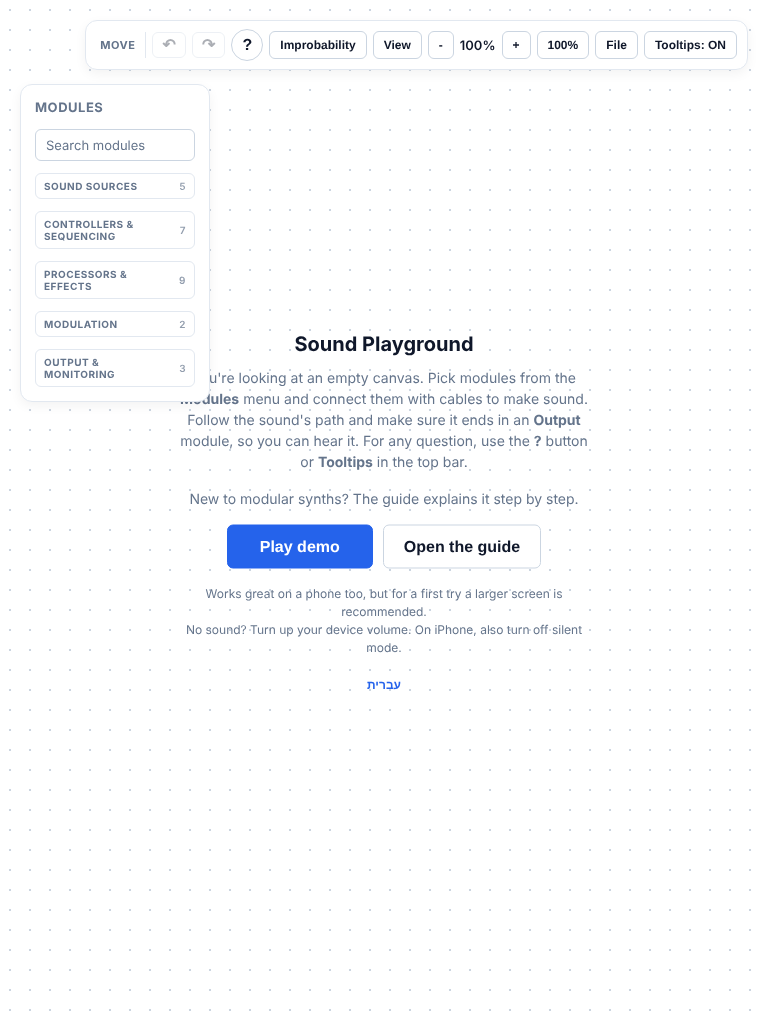
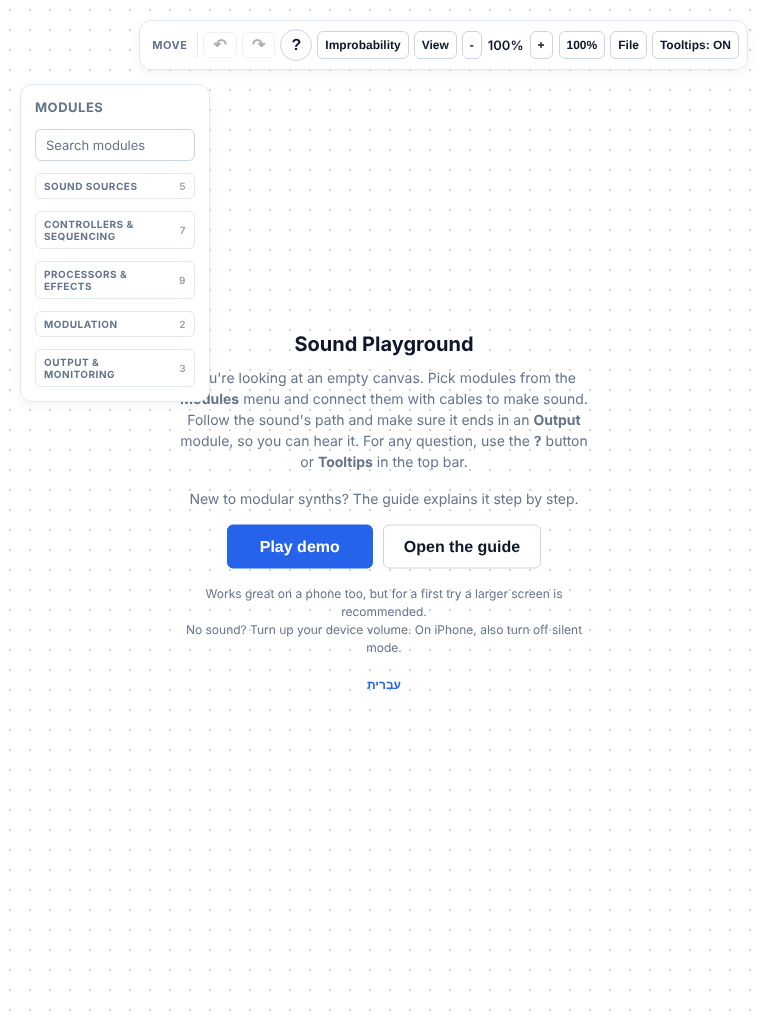
iPad portrait: keep the toolbar on one row (#88)
Claude-Session: https://claude.ai/code/session_01MK8TDschaqwzLbxzvYubmw

Changed region(s): [[0.2812, 0.0312, 0.9688, 0.0625], [0.125, 0.0312, 0.25, 0.0625]]

diff --git a/app.js b/app.js
@@ -2159,8 +2159,19 @@ if (!window.SoundSandboxApp) {
         handle.classList.add('panel-drag-handle');
         handle.title = 'Drag to move. Double-click to reset position.';
 
+        // Width the panel wants (measured at the left edge, so a panel squeezed against the right edge
+        // and wrapped onto two rows still reports its one-row width)
+        const naturalWidth = () => {
+          const prevLeft = el.style.left, prevRight = el.style.right;
+          el.style.left = '0px';
+          el.style.right = 'auto';
+          const w = Math.ceil(el.getBoundingClientRect().width) + 1; // +1: a fractional width would wrap at the edge
+          el.style.left = prevLeft;
+          el.style.right = prevRight;
+          return w;
+        };
         const placeAt = (left, top) => {
-          const maxLeft = Math.max(0, window.innerWidth - el.offsetWidth);
+          const maxLeft = Math.max(0, window.innerWidth - naturalWidth());
           const maxTop = Math.max(0, window.innerHeight - 40);
           left = Math.min(Math.max(0, left), maxLeft);
           top = Math.min(Math.max(0, top), maxTop);
@@ -2178,6 +2189,12 @@ if (!window.SoundSandboxApp) {
         window.addEventListener('resize', () => {
           if (el.style.left) placeAt(parseFloat(el.style.left), parseFloat(el.style.top));
         });
+        // ...and when its buttons change (e.g. the Demo button appears in the Toolbar), slide it left so it keeps one row.
+        if (window.MutationObserver) {
+          new MutationObserver(() => {
+            if (el.style.left && !el.classList.contains('panel-dragging')) placeAt(parseFloat(el.style.left), parseFloat(el.style.top));
+          }).observe(el, { subtree: true, childList: true, attributes: true, attributeFilter: ['hidden'] });
+        }
 
         handle.addEventListener('pointerdown', (e) => {
           if (e.button !== 0) return;

diff --git a/styles.css b/styles.css
@@ -2058,10 +2058,11 @@ body.cable-dragging .module-card input[type="range"].knob-droppable {
 @media (min-width: 701px) and (min-height: 501px) and (max-width: 1279px) {
   .sidebar { top: 84px; }
 }
-/* iPad portrait (up to 860 px): tighter spacing between toolbar buttons, so the Improbability button
-   and the docked Demo button still fit on one row */
+/* iPad portrait (744-860 px, iPad mini to iPad Pro 11): tighter spacing and button padding in the toolbar,
+   so with the Improbability and docked Demo buttons it still fits on one row (about 680 px wide) */
 @media (min-width: 701px) and (min-height: 501px) and (max-width: 860px) {
-  .toolbar { gap: 6px; padding-left: 10px; padding-right: 10px; }
+  .toolbar { gap: 5px; padding-left: 8px; padding-right: 8px; }
+  .toolbar .tool-btn { padding-left: 7px; padding-right: 7px; }
 }
 
 /* Toolbar groups (View: Theme, Play Mode, Cables; File: Save, Load, Clear), on every screen:

diff --git a/index.html b/index.html
@@ -23,7 +23,7 @@
   <meta name="apple-mobile-web-app-status-bar-style" content="default">
   <link rel="apple-touch-icon" href="icons/icon-180.png">
   <link rel="icon" type="image/png" sizes="192x192" href="icons/icon-192.png">
-  <link rel="stylesheet" href="styles.css?v=3.37">
+  <link rel="stylesheet" href="styles.css?v=3.38">
 </head>
 <body class="light-theme">
 
@@ -188,7 +188,7 @@
 
   <!-- Main Application -->
   <script src="modulation.js?v=2"></script>
-  <script src="app.js?v=32"></script>
+  <script src="app.js?v=33"></script>
   <script src="improbability.js?v=1"></script>
   <script src="presetTips.js?v=7"></script>
   <script src="onboarding.js?v=6"></script>

diff --git a/architecture.md b/architecture.md
@@ -138,7 +138,7 @@ A browser-based, interactive modular synthesizer sandbox built with pure HTML5, 
 2b. **Zooming**: Controlled via Toolbar Zoom buttons or mouse wheel modifiers, scaling `#workspace-viewport`. Range: `minZoom()` = 10% (0.1) on every screen (phone, iPad, desktop; was 40%, and 25% on phone) up to 220%.
    - **iPad / touch**: pinching with two fingers on the empty workspace zooms the app view around the fingers (and moving the two fingers pans it), handled with pointer events in `bindCanvasInteractions` (`touchPoints`, `pinch`). The Apple Pencil (`pointerType: 'pen'`) never pinches. The browser's own page zoom is blocked: `touch-action: none` on `html`, `body` and `#canvas-container`, `preventDefault` on Safari's `gesturestart/gesturechange/gestureend` and on multi-finger `touchmove`. Scrollable areas (Sidebar, help tabs and help content) use `touch-action: pan-x pan-y` so they still scroll. The viewport meta also has `maximum-scale=1.0, user-scalable=no`.
    - **The page never scrolls**: `html` has `overflow: hidden; overflow: clip; height: 100%` and `#canvas-container` has `overflow: hidden; overflow: clip`. Without this, modules placed beyond the screen made the page larger than the screen, and iPad Safari let the whole page slide while panning, showing an edge where the dot grid stopped, with modules cut off there and the view jumping back. `clip` also stops focusing a control from scrolling the workspace; `hidden` is the fallback for older Safari.
-   - **Nothing may stick out past the screen edge** (iPad Safari then shrinks the whole page to fit it, so the dotted canvas ends before the screen does and modules are cut off there). On screens that are not phones (`min-width: 701px` and `min-height: 501px`) the Toolbar has `max-width: calc(100vw - 40px); flex-wrap: wrap; row-gap: 8px` as a last resort. Between 701 and 860 px wide (iPad portrait) the Toolbar uses `gap: 6px` and `padding-left/right: 10px`, so with the Improbability and docked Demo buttons it still fits on one row at 768 px. **Toolbar groups** (all screens, owner's choice): in `index.html` Theme / Play Mode / Cables sit in `div.tb-group[data-group="view"]` and Save / Load (with its hidden file input) / Clear in `div.tb-group[data-group="file"]`, each holding a `button.tool-btn.tb-group-toggle` ("View" / "File", `aria-expanded`) and a `div.tb-group-items`. The Toolbar is therefore one row of about 675 px: Move, Undo, Redo, ?, Demo, View, zoom, File, Tooltips (on a phone it still scrolls sideways when narrower than that). The items are a small dropdown panel (`position: fixed`, panel colors, a column of buttons, `nowrap`), hidden until the group has `.open`. `app.js` `initToolbarGroups()` (called after `initDraggablePanels()`): a toggle click opens its group (toggle drawn in the primary color), closes the other, and places the panel 6 px under the Toolbar's bottom, left-aligned with its button and clamped 8 px inside the screen (fixed positioning so the phone's `overflow-x: auto` Toolbar cannot clip it); clicking a button inside, a capture `pointerdown` anywhere outside, scrolling the Toolbar or resizing the window closes it. Up to 1279 px wide the Sidebar starts at `top: 84px` so the Toolbar never covers it. Dragged panels are already clamped to the screen (`placeAt`).
+   - **Nothing may stick out past the screen edge** (iPad Safari then shrinks the whole page to fit it, so the dotted canvas ends before the screen does and modules are cut off there). On screens that are not phones (`min-width: 701px` and `min-height: 501px`) the Toolbar has `max-width: calc(100vw - 40px); flex-wrap: wrap; row-gap: 8px` as a last resort. Between 701 and 860 px wide (iPad portrait, iPad mini 744 to iPad Pro 11 834) the Toolbar uses `gap: 5px`, `padding-left/right: 8px` and its `.tool-btn`s 7 px side padding, so with the Improbability and docked Demo buttons it is about 663 px wide and fits on one row. A moved panel (Toolbar or Sidebar, `initDraggablePanels()` `placeAt()`) is clamped using its one-row width (`naturalWidth()`: measured at `left: 0`, rounded up + 1 px), not its current width, so a Toolbar saved near the right edge slides left instead of wrapping; a `MutationObserver` re-places it when its buttons change (e.g. the Demo button appears). **Toolbar groups** (all screens, owner's choice): in `index.html` Theme / Play Mode / Cables sit in `div.tb-group[data-group="view"]` and Save / Load (with its hidden file input) / Clear in `div.tb-group[data-group="file"]`, each holding a `button.tool-btn.tb-group-toggle` ("View" / "File", `aria-expanded`) and a `div.tb-group-items`. The Toolbar is therefore one row of about 675 px: Move, Undo, Redo, ?, Demo, View, zoom, File, Tooltips (on a phone it still scrolls sideways when narrower than that). The items are a small dropdown panel (`position: fixed`, panel colors, a column of buttons, `nowrap`), hidden until the group has `.open`. `app.js` `initToolbarGroups()` (called after `initDraggablePanels()`): a toggle click opens its group (toggle drawn in the primary color), closes the other, and places the panel 6 px under the Toolbar's bottom, left-aligned with its button and clamped 8 px inside the screen (fixed positioning so the phone's `overflow-x: auto` Toolbar cannot clip it); clicking a button inside, a capture `pointerdown` anywhere outside, scrolling the Toolbar or resizing the window closes it. Up to 1279 px wide the Sidebar starts at `top: 84px` so the Toolbar never covers it. Dragged panels are already clamped to the screen (`placeAt`).
    - **Phone (iPhone) only** (`isPhone()`, same query as the PHONE block in `styles.css`; iPad and desktop unchanged): two fingers pinch-zoom wherever they land, also on a module (a capture `pointerdown` on `#canvas-container` takes the second finger, sets `isPinching`, and a module drag by the first finger pauses until all fingers lift); one finger on the empty workspace draws the selection box as on iPad (moving the two pinching fingers pans the view); zoom goes down to 25% (`minZoom()`: 0.25 on phone, 0.4 elsewhere), also for the zoom buttons and the fit after loading a patch.
    - **Stuck page zoom**: Safari can reopen the page still zoomed in from before, pushing the menus off screen. `resetPageZoom()` (called from `bindCanvasInteractions`) briefly rewrites the viewport meta on load and on `pageshow` so Safari returns to normal size. While `visualViewport.scale > 1.01` the `html.page-zoomed` class is set: it switches `touch-action` to `manipulation` and stops blocking Safari's gesture events, so the page can be pinched back out by hand; the lock returns once the page is at normal size.
    - **Display after returning to the app**: on iPad (installed app) the page could come back from another app drawn at a wrong size (only the top-left part of the screen, modules invisible) until the app was closed and reopened. `resetPageZoom()` now also resets when `visualViewport.scale` is below 0.99 (zoomed out), and calls `repairViewOnReturn()`: on `visibilitychange` to visible, `pageshow` from the back/forward cache and `orientationchange`, at 0, 300 and 1000 ms, it rewrites the viewport meta to `width=device-width, initial-scale=1, maximum-scale=1, user-scalable=no` and restores it on the next frame, runs `forceReset()`, re-measures the cable canvas (`resizeCanvas()`) and forces a full repaint (sets `opacity: 0.999` on `html`, reads `offsetHeight`, clears it on the next frame and redraws the cables). A `ResizeObserver` on `#canvas-container` also calls `resizeCanvas()` whenever the workspace changes size, not only on window `resize`.
@@ -363,3 +363,4 @@ Any other value (e.g. `audioinput`) fails to create the module. Presets live in 
 - **2026-10-18** - Tips panel: a Previous tip button before Next tip (owner's request; English and Hebrew, wraps around). Bumped `presetTips.js?v=7`, `styles.css?v=3.37`.
 - **2026-10-18** - `demo-harmony` now also demonstrates the arpeggiator (owner's request): Arp Broken, 1/8 triplets, 2 octaves, ARP → triangle Oscillator → VCA with an Envelope on ARP GATE → Reverb. Bumped `helpData.js?v=36`.
 - **2026-10-18** - Harmony Walker no longer climbs (owner's report): voice leading pulls the chord back to the Octave when its average strays more than 4 steps, and drifting tunings stay within 50 cents. Bumped `HarmonyWalkerModule.js?v=5`, `helpData.js?v=37`.
+- **2026-10-18** - iPad portrait: the Toolbar wrapped onto two rows again after Improbability was added (owner's report, iPad 834 px wide with the Toolbar moved earlier). A moved Toolbar was clamped by its already-wrapped width; `placeAt()` now uses its one-row width and re-places it when its buttons change (`app.js`). Toolbar spacing and button padding at 701-860 px tightened further so it also fits the iPad mini by default (section 5). Bumped `app.js?v=33`, `styles.css?v=3.38`.
